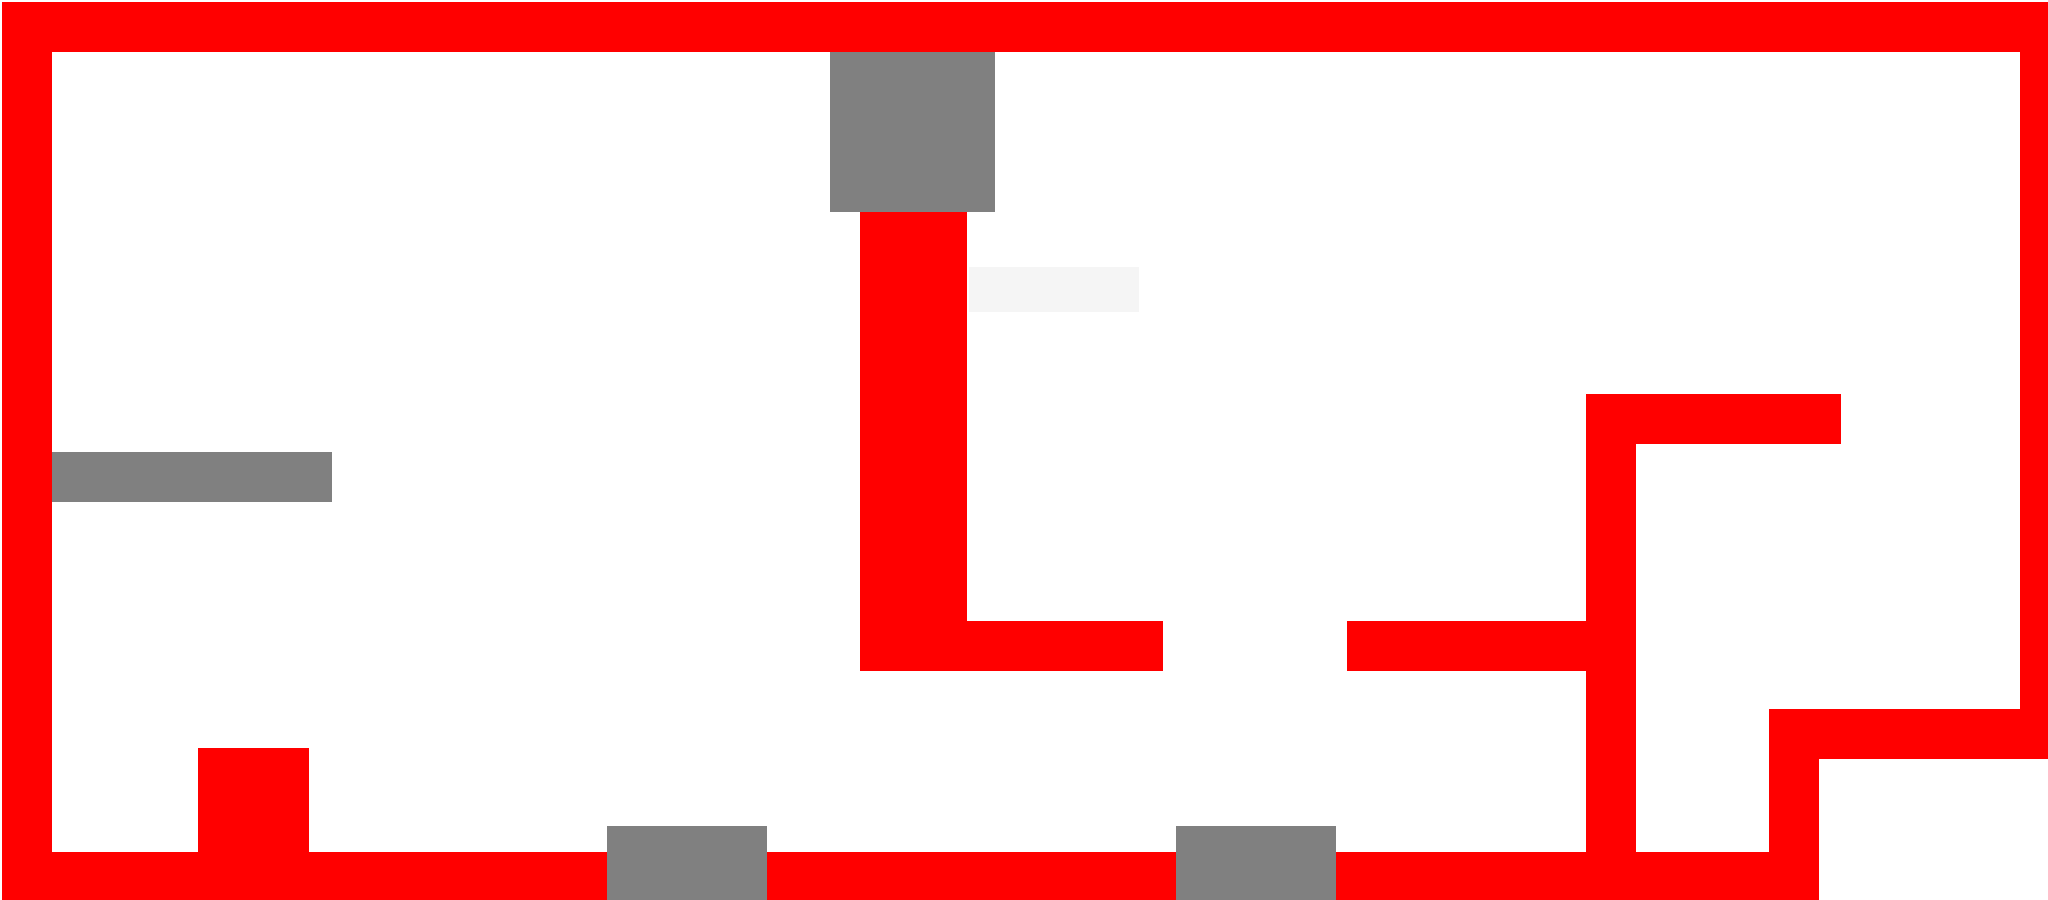
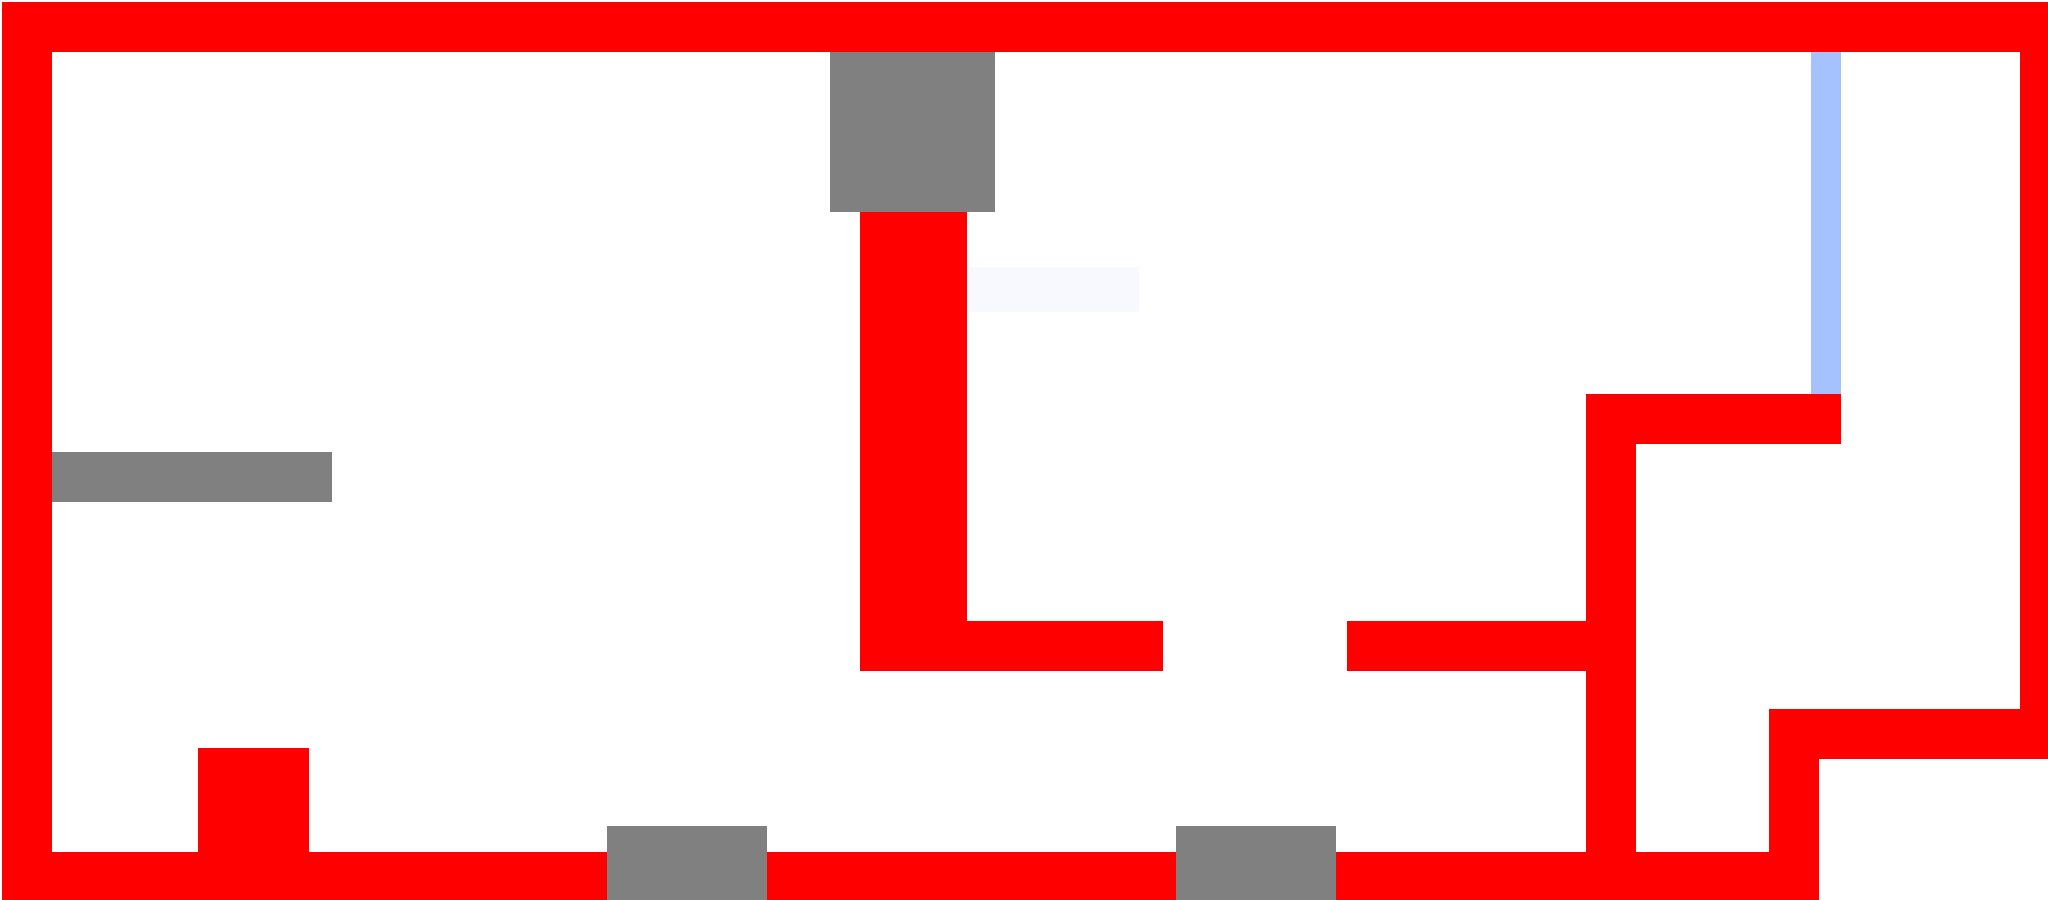
Added a new surface, passing through it will remove all placed portals. More level 6 tweaking. All sprites now have a terminal Y velocity of 1000. Minor tweaks to portal behavior.

Changed region(s): [[0.875, 0.0622, 0.9062, 0.4356]]

diff --git a/Half-Caked/Half-Caked/Character.cs b/Half-Caked/Half-Caked/Character.cs
@@ -72,6 +72,7 @@ namespace Half_Caked
         Rectangle[] mCollisions = new Rectangle[5];
 
         SoundEffect mJumpEffect, mDeathEffect, mLandingEffect;
+        SoundEffect antiportalEffect;
         #endregion
 
         #region Initialization
@@ -107,6 +108,7 @@ namespace Half_Caked
             mJumpEffect = theContentManager.Load<SoundEffect>("Sounds\\PlayerJump");
             mDeathEffect = theContentManager.Load<SoundEffect>("Sounds\\PlayerKilled");
             mLandingEffect = theContentManager.Load<SoundEffect>("Sounds\\PlayerLanding");
+            antiportalEffect = theContentManager.Load<SoundEffect>("Sounds\\antiportal");
 
             Center = new Vector2(Size.Width / 2, Size.Height / 2);
         }
@@ -133,7 +135,6 @@ namespace Half_Caked
 
             UpdateDuck(inputState);
 
-            //falling
             Acceleration.Y = (mCurrentState == State.Air || mCurrentState == State.GravityPortal || mCurrentState == State.Portal ? 1 : 0) * level.Gravity * Level.METERS_TO_UNITS;
 
             if (Angle != 0)
@@ -169,7 +170,7 @@ namespace Half_Caked
                 Rectangle result = Rectangle.Intersect(obs.CollisionSurface, CollisionSurface);
                 if (!result.IsEmpty)
                 {
-                    if (HandleStandardCollision(result, obs.CollisionSurface, obs.Contact(result), obs.Friction * level.Gravity))
+                    if (HandleStandardCollision(result, obs.CollisionSurface, obs.Contact(result), obs.Friction * level.Gravity, level))
                     {
                         Die(level);
                         return;
@@ -192,7 +193,7 @@ namespace Half_Caked
                 Rectangle result = Rectangle.Intersect(tile.Dimensions, CollisionSurface);
                 if (!result.IsEmpty)
                 {
-                    if (HandleStandardCollision(result, tile.Dimensions, tile.Type, tile.Friction * level.Gravity))
+                    if (HandleStandardCollision(result, tile.Dimensions, tile.Type, tile.Friction * level.Gravity, level))
                     {
                         Die(level);
                         return;
@@ -306,14 +307,17 @@ namespace Half_Caked
                         if ((first = (CollisionSurface.Y >= Portal.CollisionSurface.Bottom - CollisionSurface.Height)) || Portal.CollisionSurface.Y >= CollisionSurface.Y)
                         {
                             if (first)
-                                Velocity.Y = Math.Min(Velocity.Y, 0);
+                            {
+                                //Velocity.Y = Math.Min(Velocity.Y, 0);
+                            }
                             else
                             {
-                                Velocity.Y = Math.Max(Velocity.Y, 0);
+                                //Velocity.Y = Math.Max(Velocity.Y, 0);
                                 mCurrentState = State.GravityPortal;
                                 stillJumping = false;
                             }
 
+                            Velocity.Y = 0;
                             Position = new Vector2(Position.X, MathHelper.Clamp(Position.Y, Portal.CollisionSurface.Y + Center.Y, Portal.CollisionSurface.Bottom - Center.Y));
                         }
                         return true;
@@ -331,8 +335,10 @@ namespace Half_Caked
                         if (CollisionSurface.X > Portal.CollisionSurface.Right - CollisionSurface.Width || Portal.CollisionSurface.X > CollisionSurface.X)
                         {
                             Position = new Vector2(MathHelper.Clamp(Position.X, Portal.CollisionSurface.X + Center.X, Portal.CollisionSurface.Right - Center.X), Position.Y);
-                            Velocity.X = 0;
+                            //Velocity.X = 0;
                         }
+                        Velocity.X = 0;
+
                         return true;
                     }
                 }
@@ -340,9 +346,18 @@ namespace Half_Caked
             return false;
         }
 
-        private bool HandleStandardCollision(Rectangle result, Rectangle obj, Surface type, float friction)
+        private bool HandleStandardCollision(Rectangle result, Rectangle obj, Surface type, float friction, Level level)
         {
-            if (3 >= result.Height || result.Width >= this.CollisionSurface.Width - 1
+            if(type == Surface.Antiportal) //no physical interaction with antiportal surfaces
+            {
+                //reset portals
+                if(level.Portals.Portal1.Visible || level.Portals.Portal2.Visible)
+                {
+                    level.Portals.Reset();
+                    level.PlaySoundEffect(antiportalEffect);
+                }
+            }
+            else if (3 >= result.Height || result.Width >= this.CollisionSurface.Width - 1
                 || result.Height / (float)CollisionSurface.Height < result.Width / (float)CollisionSurface.Width)
             {
                 if (CollisionSurface.Center.Y < obj.Center.Y)

diff --git a/LevelCreator/PropertyWindows/TilePropWindow.xaml.cs b/LevelCreator/PropertyWindows/TilePropWindow.xaml.cs
@@ -24,6 +24,8 @@ namespace LevelCreator
         {
             Tile mTile;
 
+            SolidColorBrush antiportalColor = new SolidColorBrush(Color.FromArgb(100, 25, 100, 255));
+
             public override int X
             {
                 get { return base.X; }
@@ -85,7 +87,10 @@ namespace LevelCreator
                             (mItem.Content as Rectangle).Fill = Brushes.Gray;
                             break;
                         case Surface.Reflects:
-                            (mItem.Content as Rectangle).Fill = Brushes.WhiteSmoke;
+                            (mItem.Content as Rectangle).Fill = Brushes.GhostWhite;
+                            break;
+                        case Surface.Antiportal:
+                            (mItem.Content as Rectangle).Fill = antiportalColor;
                             break;
                         default:
                             break;

diff --git a/Half-Caked/Half-Caked/Sprite.cs b/Half-Caked/Half-Caked/Sprite.cs
@@ -159,9 +159,16 @@ namespace Half_Caked
             if (!Visible)
                 return;
 
-            Velocity += Acceleration * (float)theGameTime.ElapsedGameTime.TotalSeconds;
+            //Terminal Velocity
+            if (Velocity.Y > 1000)
+            {
+                Velocity.Y = 1000;
+            }
 
+            Velocity += Acceleration * (float)theGameTime.ElapsedGameTime.TotalSeconds;
             Position += (Velocity + FrameVelocity) * (float)theGameTime.ElapsedGameTime.TotalSeconds;
+
+            
         }
         
         //Draw the sprite to the screen

diff --git a/Half-Caked/Half-Caked/Tile.cs b/Half-Caked/Half-Caked/Tile.cs
@@ -8,6 +8,7 @@ namespace Half_Caked
 {
     public enum Surface
     {
+        Antiportal = 5,
         Absorbs = 4,
         Amplifies = 3,
         Normal = 2,
